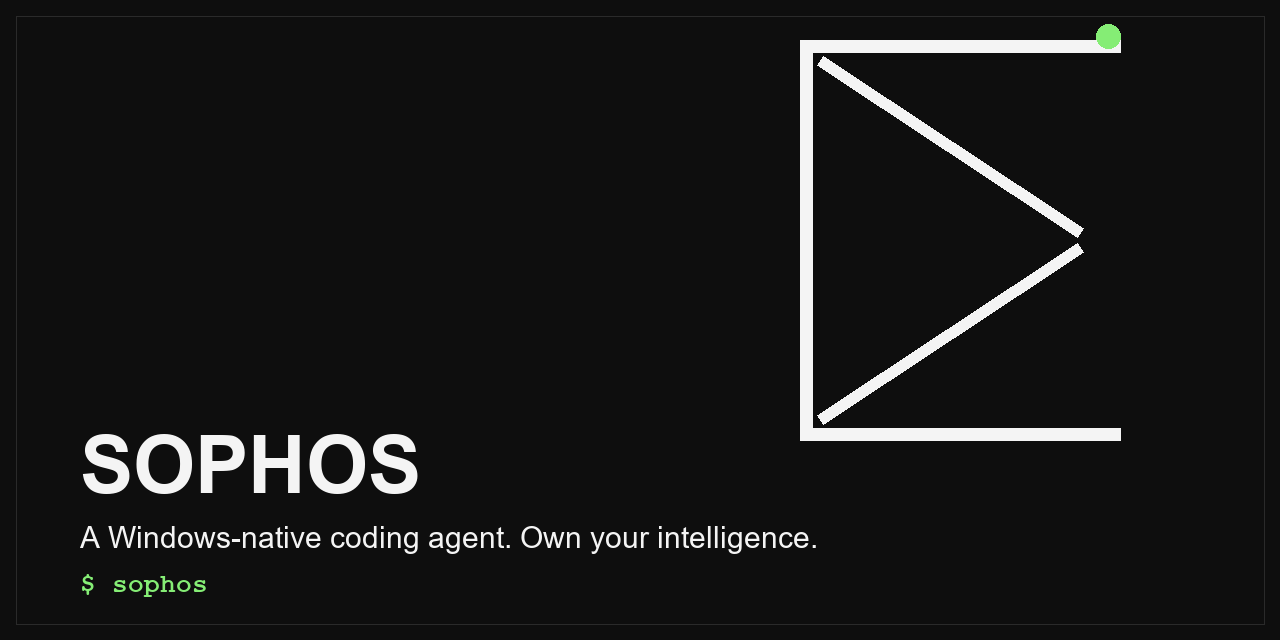
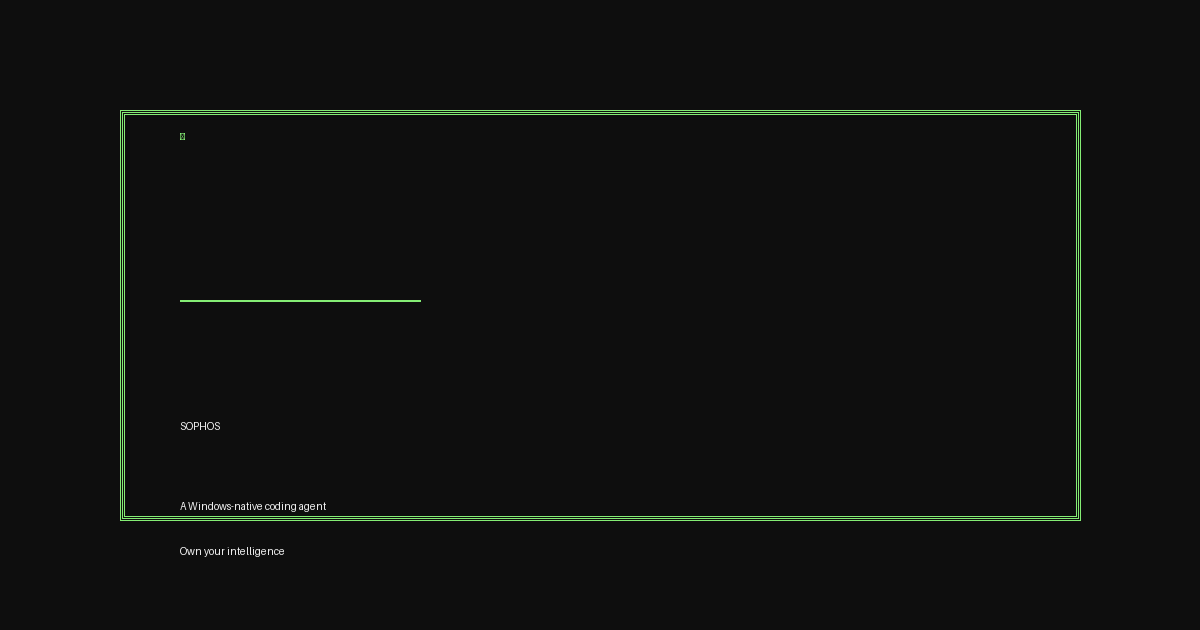
Add PR template and social preview image

diff --git a/.github/pull_request_template.md b/.github/pull_request_template.md
@@ -1,0 +1,24 @@
+<!--
+  Thank you for contributing to Sophos! To help reviewers understand your
+  change, please fill in the sections below. The PR title should follow
+  Conventional Commits (e.g. "feat: add prompt-templates to ⌘K palette").
+-->
+
+## Summary
+
+<!-- One paragraph: what does this PR do and why? -->
+
+## Changes
+
+<!-- Bullet list of what changed (files touched, behavior added/changed). -->
+
+## Testing
+
+<!-- How was this verified? tsc --noEmit, vitest run, browser screenshots,
+     manual steps — be specific. -->
+
+## Breaking changes
+
+<!-- Does this PR introduce any breaking changes for users or downstream
+     consumers? If none, write "None". -->
+None
